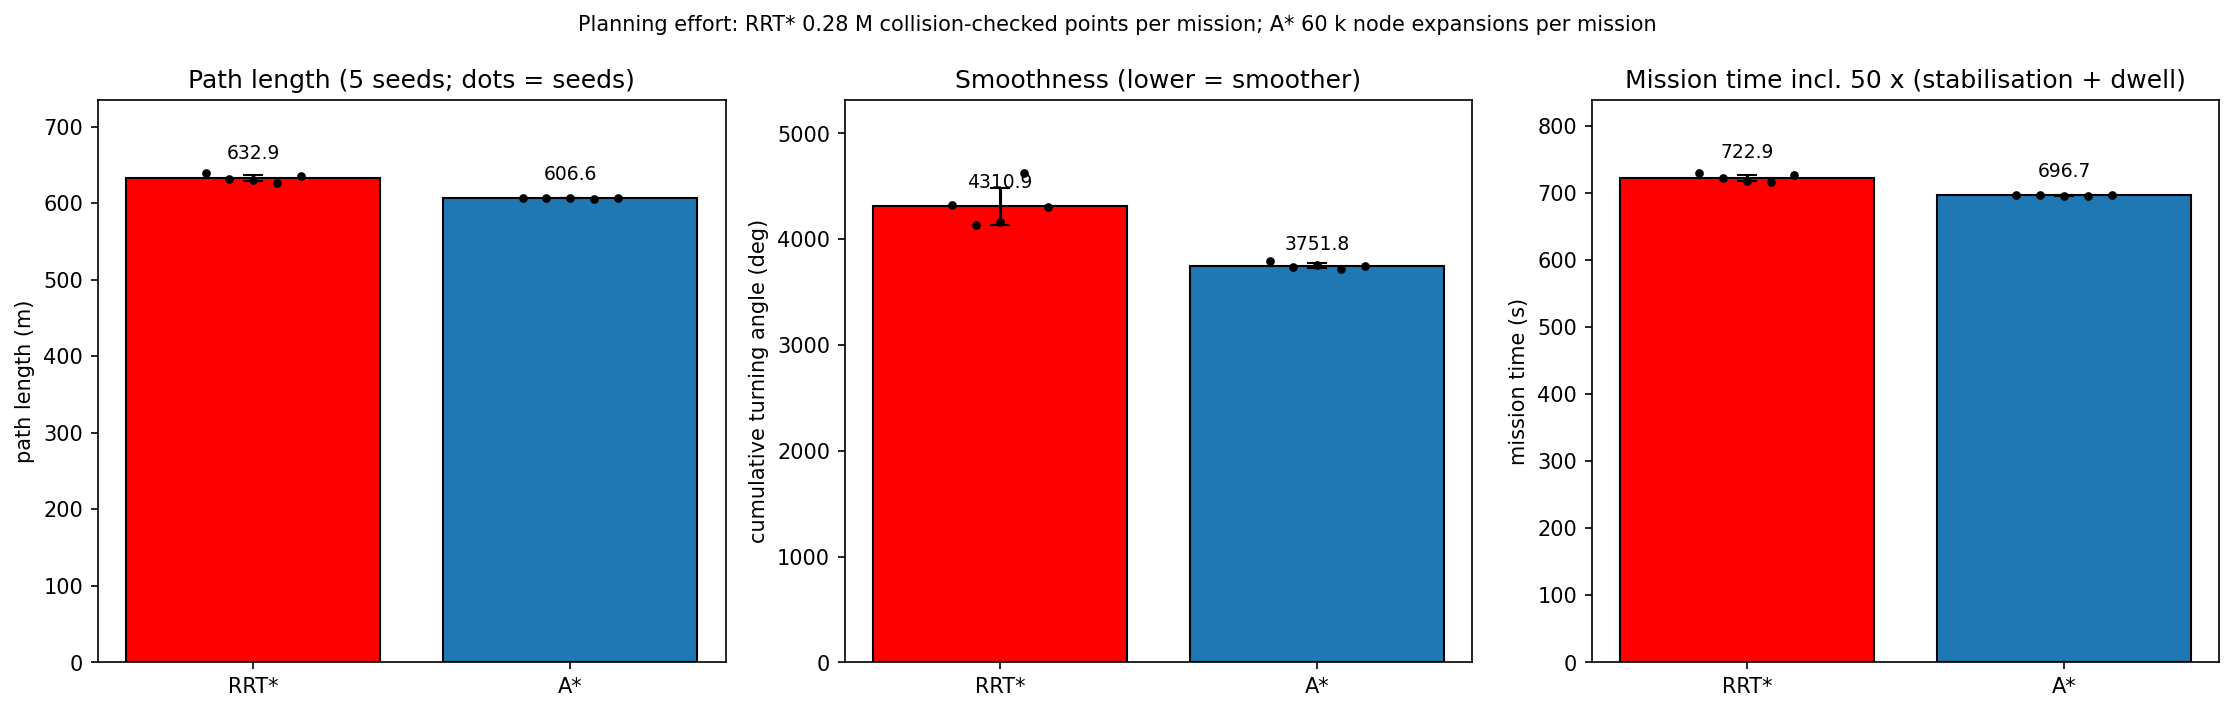
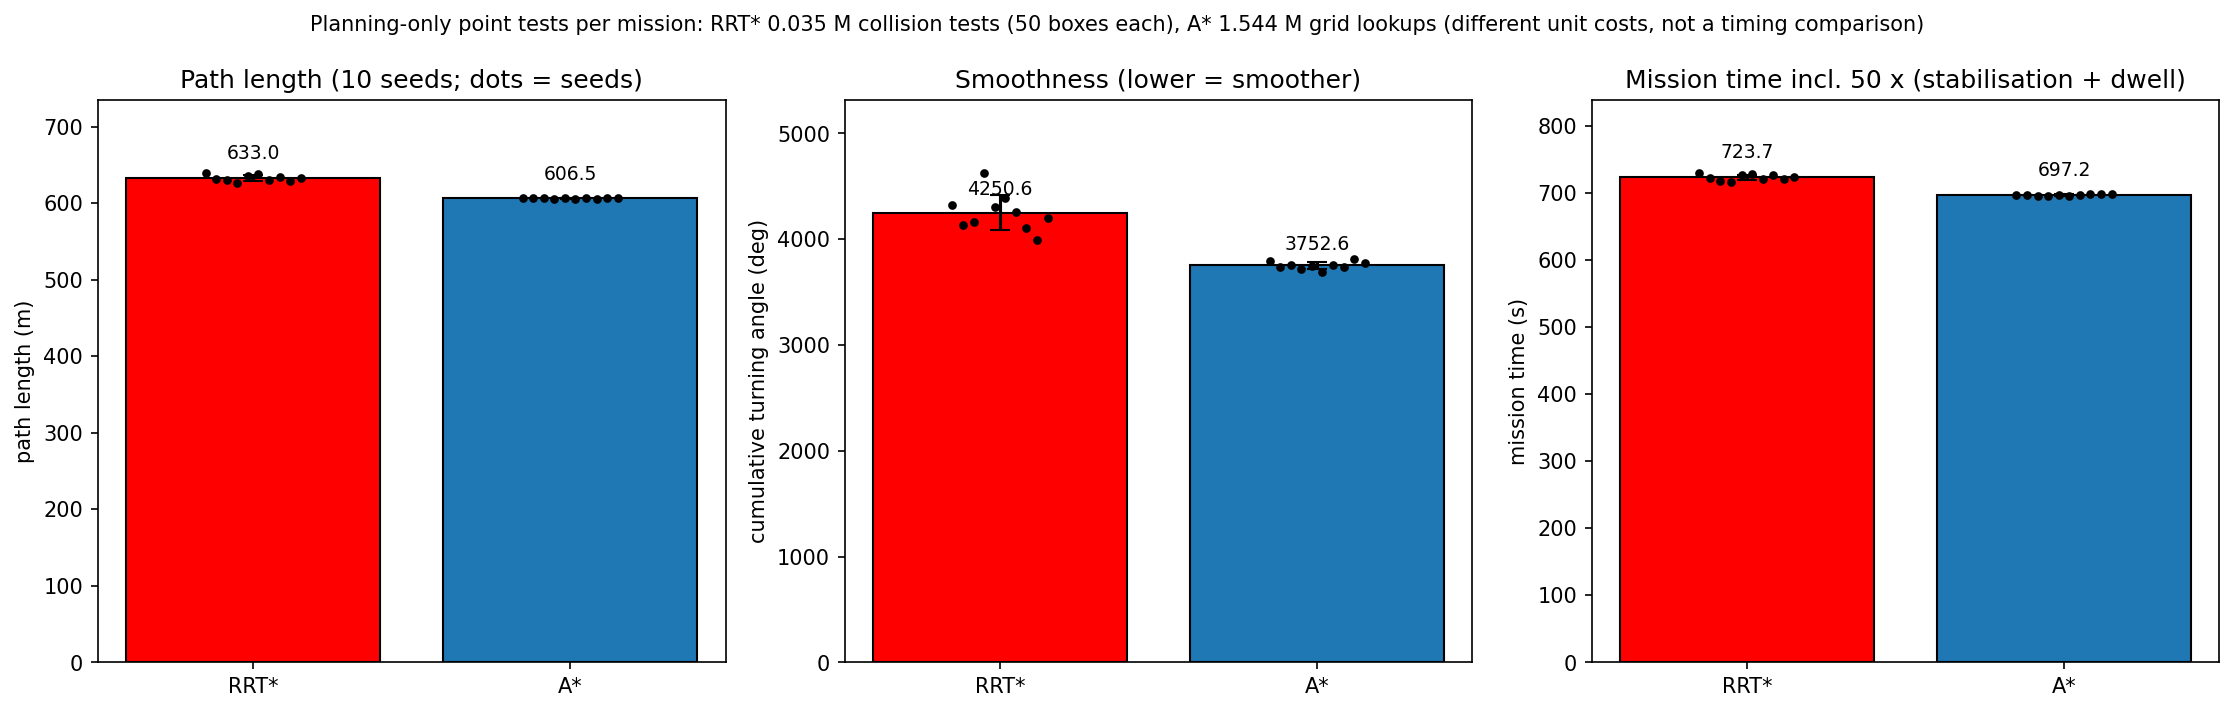
Fix S075 Port Container Yard Inventory: address review follow-ups
Report planning-only point tests and state that they are not a timing
comparison; use 10 seeds.

diff --git a/src/04_industrial_agriculture/s075_container_yard.py b/src/04_industrial_agriculture/s075_container_yard.py
@@ -56,7 +56,7 @@ BEZIER_ALPHA = 0.3
 THETA_MAX = np.radians(150.0)        # interior angle below which a corner is rounded
 
 # ── Added parameters (see README Deviations) ──────────────────────────────────
-SEEDS = [0, 1, 2, 3, 4]
+SEEDS = list(range(10))
 SAMPLE_MARGINS = [8.0, 16.0, None]   # m, RRT* sampling box margin (None = whole yard)
 CHECK_STEP = R_DRONE / 2             # m, collision sampling along segments (card delta)
 BEZIER_PTS = 8
@@ -206,6 +206,7 @@ class GridPlanner:
         self.deltas = [(dx, dy, dz) for dx in (-1, 0, 1) for dy in (-1, 0, 1)
                        for dz in (-1, 0, 1) if (dx, dy, dz) != (0, 0, 0)]
         self.n_expanded = 0
+        self.n_lookups = 0
 
     def cell(self, p):
         return tuple(int(np.clip(p[i] / GRID_RES, 0, s - 1))
@@ -234,6 +235,7 @@ class GridPlanner:
                 nb = (cur[0] + d[0], cur[1] + d[1], cur[2] + d[2])
                 if not (0 <= nb[0] < self.nx and 0 <= nb[1] < self.ny and 0 <= nb[2] < self.nz):
                     continue
+                self.n_lookups += 1
                 if self.occ[nb] and nb != g:
                     continue
                 ng = gc + GRID_RES * np.sqrt(d[0] ** 2 + d[1] ** 2 + d[2] ** 2)
@@ -314,20 +316,26 @@ def cta(path):
 
 # ── Mission ───────────────────────────────────────────────────────────────────
 def plan_mission(planner, seq, world, rng, grid=None):
+    """Returns the path, scan-point indices, raw length, RRT* iterations and the number
+    of point tests spent in planning (excluding smoothing)."""
     full, seg_starts, iters = [seq[0]], [0], []
     raw_len = 0.0
+    plan_tests = 0
     for a, b in zip(seq[:-1], seq[1:]):
+        c0, l0 = world.n_checked, grid.n_lookups
         if planner == 'rrt':
             seg, it = rrt_star(a, b, world, rng)
             iters.append(it)
+            plan_tests += world.n_checked - c0
         else:
             seg = grid.plan(a, b)
+            plan_tests += grid.n_lookups - l0
         raw_len += path_length(seg)
         seg = shortcut(seg, world, rng)
         seg = bezier_round(seg, world)
         full.extend(seg[1:])
         seg_starts.append(len(full) - 1)
-    return full, seg_starts, raw_len, iters
+    return full, seg_starts, raw_len, iters, plan_tests
 
 
 def stabilisation(rng, n):
@@ -350,7 +358,8 @@ def run_simulation():
             rng = np.random.default_rng(s)
             world.n_checked = 0
             grid.n_expanded = 0
-            path, idx, raw, iters = plan_mission(planner, seq, world, rng, grid)
+            grid.n_lookups = 0
+            path, idx, raw, iters, plan_tests = plan_mission(planner, seq, world, rng, grid)
             checks = world.n_checked
             P = np.array(path)
             assert world.path_free(path), 'smoothed path collides'
@@ -362,6 +371,7 @@ def run_simulation():
                                      t_scan=float((t_stab + T_DWELL).sum()),
                                      t_mission=L / V_SCAN + float((t_stab + T_DWELL).sum()),
                                      checks=checks, expanded=grid.n_expanded,
+                                     plan_tests=plan_tests,
                                      iters=iters, zmax=P[:, 2].max(), zmin=P[:, 2].min()))
     straight = path_length(seq)
     return dict(boxes=boxes, wps=wps, order=order, seq=np.array(seq), res=res,
@@ -466,13 +476,14 @@ def plot_metrics(sim, out_dir):
         ax.set_xticklabels(['RRT*', 'A*'])
         ax.set_ylabel(lab)
         ax.set_ylim(0, max(v.max() for v in vals) * 1.15)
-    ch = np.mean([r['checks'] for r in res['rrt']])
-    ex = np.mean([r['expanded'] for r in res['astar']])
+    ch = np.mean([r['plan_tests'] for r in res['rrt']])
+    ex = np.mean([r['plan_tests'] for r in res['astar']])
     axes[0].set_title(f'Path length ({len(SEEDS)} seeds; dots = seeds)')
     axes[1].set_title('Smoothness (lower = smoother)')
     axes[2].set_title('Mission time incl. 50 x (stabilisation + dwell)')
-    fig.suptitle(f'Planning effort: RRT* {ch / 1e6:.2f} M collision-checked points per mission; '
-                 f'A* {ex / 1e3:.0f} k node expansions per mission', fontsize=10)
+    fig.suptitle(f'Planning-only point tests per mission: RRT* {ch / 1e6:.3f} M collision tests '
+                 f'(50 boxes each), A* {ex / 1e6:.3f} M grid lookups (different unit costs, '
+                 f'not a timing comparison)', fontsize=10)
     plt.tight_layout()
     path = os.path.join(out_dir, 'planner_metrics.png')
     plt.savefig(path, dpi=150, bbox_inches='tight')
@@ -572,6 +583,10 @@ if __name__ == '__main__':
     print(f'  RRT* segments needing a larger sampling box: {int((it > N_ITER).sum())} of {len(it)}')
     print(f'  RRT* iterations per segment: mean {it.mean():.0f}, max {it.max()}; '
           f'collision-checked points per mission: mean {np.mean([r["checks"] for r in res["rrt"]]) / 1e6:.2f} M')
+    print(f'  Planning-only point tests per mission (smoothing excluded): RRT* '
+          f'{np.mean([r["plan_tests"] for r in res["rrt"]]) / 1e6:.3f} M collision tests against '
+          f'50 boxes; A* {np.mean([r["plan_tests"] for r in res["astar"]]) / 1e6:.3f} M grid '
+          f'occupancy lookups (precomputed grid). Different unit costs: not a timing comparison.')
     print(f'  A* node expansions per mission: {np.mean([r["expanded"] for r in res["astar"]]) / 1e3:.0f} k; '
           f'collision-checked points (smoothing only): '
           f'{np.mean([r["checks"] for r in res["astar"]]) / 1e6:.2f} M')

diff --git a/outputs/04_industrial_agriculture/s075_container_yard/README.md b/outputs/04_industrial_agriculture/s075_container_yard/README.md
@@ -10,7 +10,7 @@
 
 **Objective** (card): scan all 50 containers without collision and minimise mission time; compare **RRT\*** and **A\*** (3D grid) on path length, smoothness (cumulative turning angle, CTA) and computation.
 
-**Method**: every leg between consecutive scan points is planned separately in the 3D free space (containers inflated by the drone radius, 0.25–9.75 m altitude), then shortcut-pruned and corner-rounded with Bézier curves. The scan points stay on the path. RRT\* is randomised, so the comparison is run for 5 seeds; each seed drives the shortcut smoother of both planners and the GPS stabilisation draws, so both planners see the same random numbers.
+**Method**: every leg between consecutive scan points is planned separately in the 3D free space (containers inflated by the drone radius, 0.25–9.75 m altitude), then shortcut-pruned and corner-rounded with Bézier curves. The scan points stay on the path. RRT\* is randomised, so the comparison is run for 10 seeds; each seed drives the shortcut smoother of both planners and the GPS stabilisation draws, so both planners see the same random numbers.
 
 ---
 
@@ -63,7 +63,7 @@ $$\text{CTA} = \sum_i \arccos\frac{(\mathbf w_{i+1} - \mathbf w_i)\cdot(\mathbf 
 | Shortcut tries / Bézier α / corner threshold | 200 per leg / 0.3 / interior angle < 150° |
 | Collision sampling step | 0.125 m ($r_d/2$) |
 | RRT\* sampling box margin (added) | 8 m, then 16 m, then whole yard |
-| Seeds (added) | 0–4 (RRT\* and smoothing); stabilisation draws 1000–1004 |
+| Seeds (added) | 0–9 (RRT\* and smoothing); stabilisation draws 1000–1009 |
 
 ---
 
@@ -78,36 +78,36 @@ conda activate drones
 python src/04_industrial_agriculture/s075_container_yard.py
 ```
 
-Runtime ≈ 1 min (measured while other simulations shared the machine).
+Runtime ≈ 2–2.5 min (measured while other simulations shared the machine).
 
 ---
 
 ## Results
 
-| Metric (5 seeds) | RRT\* mean ± std | A\* mean ± std |
+| Metric (10 seeds) | RRT\* mean ± std | A\* mean ± std |
 |---|---:|---:|
 | Containers scanned | 50 in every seed | 50 in every seed |
-| Raw path length before smoothing | 901.6 ± 25.6 m | 641.2 ± 0.0 m |
-| **Path length** | **632.9 ± 4.3 m** | **606.6 ± 0.3 m** |
-| **Cumulative turning angle** | **4311 ± 173°** | **3752 ± 27°** |
-| Travel time | 632.9 ± 4.3 s | 606.6 ± 0.3 s |
-| Stabilisation + dwell | 90.1 ± 0.6 s | 90.1 ± 0.6 s |
-| **Total mission time** | **722.9 ± 4.7 s** | **696.7 ± 0.7 s** |
-| Highest point | 7.80 ± 0.57 m | 6.16 ± 0.11 m |
+| Raw path length before smoothing | 904.1 ± 28.2 m | 641.2 ± 0.0 m |
+| **Path length** | **633.0 ± 3.7 m** | **606.5 ± 0.4 m** |
+| **Cumulative turning angle** | **4251 ± 166°** | **3753 ± 35°** |
+| Travel time | 633.0 ± 3.7 s | 606.5 ± 0.4 s |
+| Stabilisation + dwell | 90.7 ± 1.0 s | 90.7 ± 1.0 s |
+| **Total mission time** | **723.7 ± 3.9 s** | **697.2 ± 1.0 s** |
+| Highest point | 7.34 ± 0.97 m | 6.21 ± 0.09 m |
 
-Paired over the 5 seeds, RRT\* is shorter in 0/5, smoother in 0/5 and faster in 0/5. The straight-line tour through the 50 scan points (ignoring obstacles) is 567.0 m.
+Paired over the 10 seeds, RRT\* is shorter in 0/10, smoother in 0/10 and faster in 0/10. Ten seeds are enough here: the gap in path length (633.0 vs 606.5 m) is far larger than the seed-to-seed spread (RRT\* std 3.7 m), and no seed reverses it. The straight-line tour through the 50 scan points (ignoring obstacles) is 567.0 m.
 
-**Computation** (deterministic counts; wall-clock time is machine-dependent and not reported): RRT\* needs on average 46 iterations per leg (maximum 537; no leg needed a larger sampling box) and 0.28 M collision-checked points per mission. A\* expands 60 k grid nodes per mission; its smoothing checks 0.23 M points.
+**Computation** (deterministic counts; wall-clock time is machine-dependent and not reported). Planning alone, smoothing excluded: RRT\* makes 0.035 M collision tests per mission (each a point against the 50 inflated boxes) and needs on average 46 iterations per leg (maximum 752; no leg needed a larger sampling box); A\* makes 1.544 M occupancy lookups in a precomputed grid (60 k node expansions). **These counts are not comparable as a cost**: a lookup is one array access, a collision test is 50 box tests, and A\* also pays for building the grid once. The card's planning-time comparison is therefore not answered. Including smoothing, RRT\* checks 0.27 M points per mission and A\*'s smoothing 0.23 M.
 
 **Stabilisation** (seed 0): mean 0.31 s per stop, maximum 0.52 s.
 
 **Figures** use seed 0: RRT\* 639.0 m, CTA 4329°, mission 729.5 s; A\* 607.0 m, CTA 3799°, mission 697.4 s.
 
 **Key findings**:
-- **A\* beats RRT\* on every metric in every seed**: 606.6 vs 632.9 m, 3752 vs 4311° of turning, 696.7 vs 722.9 s. The card expected the opposite (RRT\* shorter and smoother). RRT\* stops at its first solution, which is 901.6 m raw; shortcutting removes most of the detours but not all, and the RRT\* legs keep climbing over stacks (highest point 7.80 m) where the grid search stays in the aisles. A\* is optimal on its grid, so after shortcutting it comes close to the obstacle-free tour (606.6 vs 567.0 m).
-- **RRT\* varies between seeds** (path length std 4.3 m, CTA std 173°); A\* differs between seeds only through the random shortcut tries (0.3 m).
+- **A\* beats RRT\* on every metric in every seed**: 606.5 vs 633.0 m, 3753 vs 4251° of turning, 697.2 vs 723.7 s. The card expected the opposite (RRT\* shorter and smoother). RRT\* stops at its first solution, which is 904.1 m raw; shortcutting removes most of the detours but not all, and the RRT\* legs often climb over stacks (highest point 7.34 ± 0.97 m) where the grid search stays lower (6.21 m). A\* is optimal on its grid, so after shortcutting it comes close to the obstacle-free tour (606.5 vs 567.0 m).
+- **RRT\* varies between seeds** (path length std 3.7 m, CTA std 166°); A\* differs between seeds only through the random shortcut tries (0.4 m).
 - **The card's expected metrics cannot be reproduced.** The card lists 312.4 m (RRT\*) and 358.7 m (A\*), but no collision-free tour can be shorter than the 567.0 m straight-line tour through the same scan points; the card has been annotated.
-- **Scanning overhead is small and identical for both planners**: 50 stops cost 90.1 s (1.5 s dwell + 0.31 s mean stabilisation); the planner choice changes only the travel time.
+- **Scanning overhead is small and identical for both planners**: 50 stops cost 90.7 s on average (1.5 s dwell + stabilisation; 0.31 s mean in seed 0); the planner choice changes only the travel time.
 - **Turning angles are large for both planners** (over 3700°): consecutive scan points sit at different heights (1.25, 2.5 or 3.75 m), so the path turns up or down at almost every stop, and the CTA counts those turns as well.
 
 ### 3D Yard Overview
@@ -124,7 +124,7 @@ Top: top views coloured by altitude. Bottom: front views (x–z) with the stacks
 
 ### Planner Metrics
 
-Path length, cumulative turning angle and mission time (bars: mean ± std over 5 seeds; dots: seeds). The title gives the deterministic computation counts:
+Path length, cumulative turning angle and mission time (bars: mean ± std over 10 seeds; dots: seeds). The title gives the planning-only point-test counts, which are not comparable as a cost:
 
 ![Planner metrics](./planner_metrics.png)
 
@@ -140,8 +140,8 @@ Top-down view of the RRT\* mission, seed 0 (184 frames, one every 4 s): the dron
 |------|----------------|--------|
 | 3 m aisles in y; workspace up to 7.5 m (text) | 7.5–9.5 m aisles and 10 m ceiling | The values in the card's own code (row origins, `YARD_Z = 10`); with a 7.5 m ceiling the drone could not pass over a 3-tier stack. Card corrected. |
 | A\* grid 200 × 160 × 15 (text) | 200 × 160 × 20 | `YARD_Z / GRID_RES` in the card's code. Card corrected. |
-| Expected metrics 312.4 m / 358.7 m, RRT\* better | 632.9 m / 606.6 m, A\* better | The card's values are below the 567.0 m straight-line tour, so they cannot be right. Card annotated. |
-| Planning time in seconds | Deterministic counts (iterations, checked points, node expansions) | Wall-clock time changes from run to run and machine to machine, so it cannot be part of a reproducible output. |
+| Expected metrics 312.4 m / 358.7 m, RRT\* better | 633.0 m / 606.5 m, A\* better | The card's values are below the 567.0 m straight-line tour, so they cannot be right. Card annotated. |
+| Planning time in seconds | Deterministic counts (iterations, collision tests, grid lookups, node expansions); no timing comparison | Wall-clock time changes from run to run and machine to machine, so it cannot be part of a reproducible output; the counts have different unit costs, so the planning-time question stays open. |
 | RRT\* samples the whole yard | Samples the leg's bounding box + 8 m (then 16 m, then the whole yard) | With whole-yard sampling, some legs found no path within 5000 iterations in development runs. |
 | Shortcut smoothing over the whole concatenated path | Per leg | Shortcutting the whole path deletes scan points; every scan point must stay on the path (asserted). |
 | Bézier from $\mathbf w_{i-1}$ to $\mathbf w_{i+1}$ with the card's angle test | Corner rounding between points at α = 0.3 of the adjacent edges; only interior angles < 150°; curve checked for collisions | The card's curves for consecutive corners overlap (the path runs back), its test (`angle < 150°` on the turning angle) rounds almost every node, and nothing checked the curves for collisions. |
